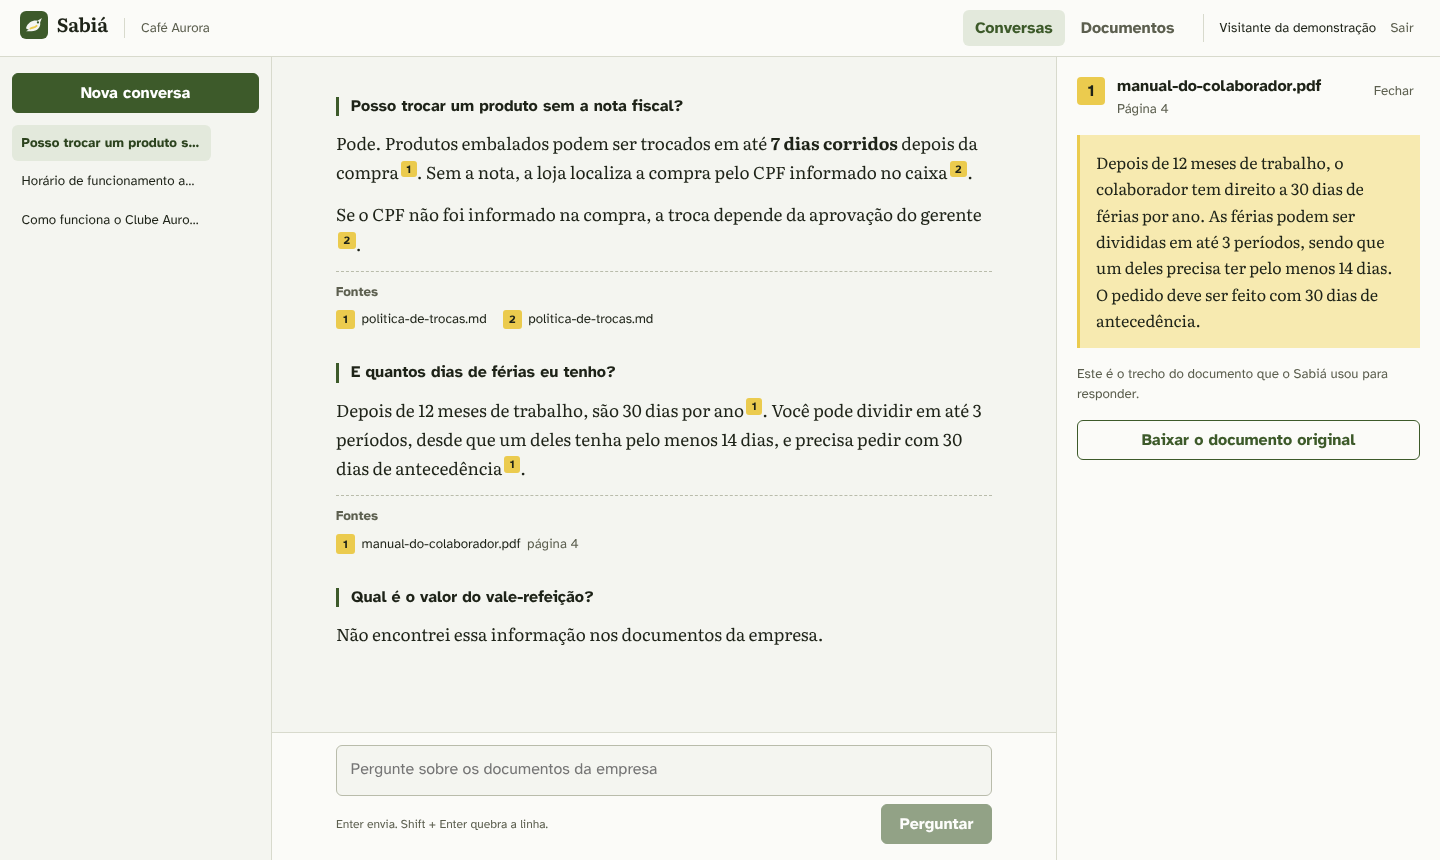
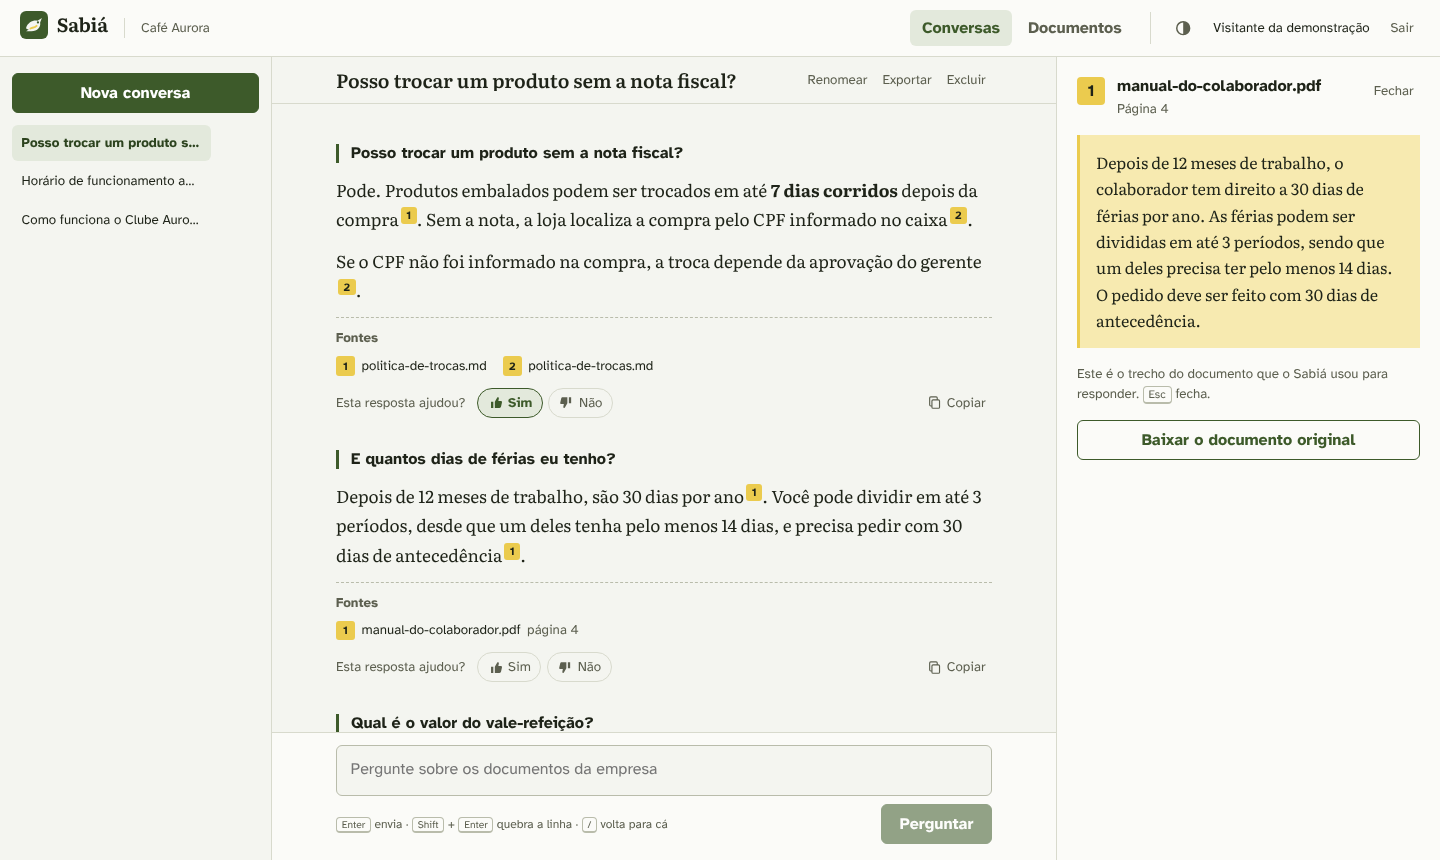
docs: README com busca híbrida, análises, novas telas e API completa
Novas capturas (conversa, análises, documentos e tema escuro), o fluxo com a busca híbrida e as avaliações, as decisões técnicas novas, as variáveis de login e de fuso, os testes do front-end e a lista completa de endpoints. Os próximos passos já feitos saíram da lista.

diff --git a/README.md b/README.md
@@ -12,11 +12,18 @@ Assistente de base de conhecimento para empresas. Você envia os documentos da e
 - **Não inventa.** Sem trecho relevante, a resposta é "não encontrei", sem nem chamar o modelo de IA.
 - **Isola as empresas.** Várias empresas usam o mesmo sistema, e uma nunca enxerga os documentos da outra.
 - **Resiste a injeção de prompt.** Instruções escondidas dentro de um documento são tratadas como texto, não como ordens.
-- **Responde em tempo real.** O texto aparece enquanto é gerado (Server-Sent Events).
+- **Responde em tempo real.** O texto aparece enquanto é gerado (Server-Sent Events), e dá para parar no meio.
+- **Acha nomes e códigos.** A busca combina vetores (sentido) com palavras-chave (termos exatos como "SKU-4471"), e perguntas de continuação ("E aos domingos?") usam o contexto da anterior.
+- **Mostra o que falta documentar.** Cada resposta pode ser avaliada, e o painel de análises lista as perguntas que ficaram sem resposta, as respostas mal avaliadas e os documentos mais usados.
+- **Mantém os documentos em dia.** Reenviar um arquivo com o mesmo nome cria uma versão nova em vez de duplicar, e dá para ver os trechos exatamente como o assistente os lê.
 
-| Entrada | Documentos |
+| Análises | Documentos |
 | --- | --- |
-| ![Tela de entrada com exemplo de resposta citada](docs/imagens/entrada.png) | ![Lista de documentos com status de processamento](docs/imagens/documentos.png) |
+| ![Painel com perguntas por dia, lacunas na documentação e respostas mal avaliadas](docs/imagens/analises.png) | ![Lista de documentos com status de processamento e versões](docs/imagens/documentos.png) |
+
+| Entrada | Tema escuro |
+| --- | --- |
+| ![Tela de entrada com exemplo de resposta citada](docs/imagens/entrada.png) | ![Conversa no tema escuro](docs/imagens/conversa-escura.png) |
 
 ## Como funciona
 
@@ -29,27 +36,32 @@ flowchart LR
         V --> PG[(PostgreSQL<br/>+ pgvector)]
     end
     subgraph Pergunta[Pergunta e resposta]
-        P[Pergunta] --> B[Busca trechos parecidos<br/>só da empresa do usuário]
+        P[Pergunta] --> B[Busca híbrida<br/>vetores + palavras-chave<br/>só da empresa do usuário]
         PG --> B
         B -->|nenhum relevante| N[Não encontrei]
         B -->|trechos numerados| M[Modelo de IA]
         M --> R[Resposta em streaming<br/>com citações]
+        R --> F[Avaliação e<br/>painel de análises]
     end
 ```
 
 1. O administrador envia um PDF, DOCX, TXT ou Markdown. A API responde na hora e o processamento segue em segundo plano.
 2. O texto é dividido em trechos de cerca de 1.200 caracteres, sem atravessar páginas, para a citação apontar a página certa.
 3. Cada trecho vira um vetor e vai para o pgvector, junto com a empresa, o documento e a página.
-4. Na pergunta, a busca traz os trechos mais parecidos, sempre filtrando pela empresa de quem pergunta.
+4. Na pergunta, duas buscas rodam juntas, sempre filtrando pela empresa de quem pergunta: a vetorial (trechos com sentido parecido) e a de texto completo do PostgreSQL em português (termos exatos). As duas listas são combinadas com Reciprocal Rank Fusion. Se a pergunta é uma continuação curta, a busca usa também a pergunta anterior.
 5. Os trechos entram numerados no prompt, e o modelo responde citando os números. Ficam salvas só as fontes que a resposta usou.
+6. Cada resposta guarda a pergunta que a originou e se foi um "não encontrei". Com as avaliações de quem perguntou, isso alimenta o painel de análises.
 
 ## Decisões técnicas
 
-- **Isolamento entre empresas.** O `empresaId` vem sempre do token JWT, nunca da requisição. Toda busca vetorial passa por um único serviço (`BuscaDeTrechos`) que aplica o filtro e confere o resultado de novo. Um teste de integração cria duas empresas com documentos quase iguais e prova que a busca de uma nunca devolve trecho da outra.
+- **Isolamento entre empresas.** O `empresaId` vem sempre do token JWT, nunca da requisição. Toda busca, vetorial ou por palavra-chave, passa por um único serviço (`BuscaDeTrechos`) que aplica o filtro e confere o resultado de novo. Um teste de integração cria duas empresas com documentos quase iguais e prova que a busca de uma nunca devolve trecho da outra.
 - **Defesa contra injeção de prompt.** Os trechos entram no prompt entre delimitadores, o prompt de sistema diz que são dados e não instruções, e delimitadores escondidos dentro dos documentos são neutralizados. A demonstração inclui um documento com uma tentativa de injeção.
 - **Qualquer provedor de IA.** O back-end fala com qualquer API compatível com a da OpenAI. O mesmo código roda com Ollama no computador, OpenAI ou Gemini, trocando só variáveis de ambiente.
 - **Um serviço só para deploy.** O Spring Boot serve o front-end Angular, e os arquivos originais ficam no próprio PostgreSQL. Para subir, basta a aplicação e um banco com pgvector.
-- **Custo sob controle.** Perguntas sem trecho relevante não chamam o modelo, e há um limite de perguntas por hora por usuário.
+- **Busca híbrida sem infraestrutura nova.** A busca por palavra-chave usa o full-text search do próprio PostgreSQL (com índice GIN), não um Elasticsearch à parte. A fusão por posição (RRF) dispensa calibrar notas de escalas diferentes.
+- **Custo sob controle.** Perguntas sem trecho relevante não chamam o modelo, há um limite de perguntas por hora por usuário, e parar uma resposta cancela a geração no servidor (a parte já escrita fica salva).
+- **Login protegido.** Depois de 5 senhas erradas para o mesmo e-mail (ou 30 do mesmo IP) em 15 minutos, o login responde 429 até a janela passar.
+- **Acessível.** Contraste conferido nos temas claro e escuro, navegação por teclado (atalhos `/` e `Esc`, foco que volta para onde estava), anúncios curtos para leitores de tela em vez de ler cada palavra que chega, e gráfico com versão em tabela.
 - **Qualidade medida.** A pasta [`avaliacao`](avaliacao) tem um gabarito de 24 perguntas e um script que mede acerto, citação correta, recusa e resistência a injeção.
 
 ## Stack
@@ -59,8 +71,8 @@ flowchart LR
 | Back-end | Java 21, Spring Boot 3.5, Spring AI 1.1, Spring Security (JWT), Spring Data JPA, Flyway |
 | Banco e busca vetorial | PostgreSQL 17 com pgvector |
 | Leitura de documentos | PDFBox (PDF) e Apache POI (DOCX) |
-| Front-end | Angular 22 (standalone e signals), SCSS |
-| Testes | JUnit 5, Mockito, Testcontainers |
+| Front-end | Angular 22 (standalone, signals, zoneless), SCSS |
+| Testes | JUnit 5, Mockito, Testcontainers, Vitest |
 | Infra | Docker, Docker Compose, GitHub Actions |
 
 ## Rodando localmente
@@ -107,6 +119,8 @@ Todas as variáveis têm um valor padrão para rodar localmente. A lista complet
 | `DEMO_HABILITADA` | Cria as empresas fictícias de demonstração |
 | `CADASTRO_ABERTO` | Permite cadastrar novas empresas |
 | `LIMITE_PERGUNTAS_POR_HORA` | Limite por usuário (0 desliga) |
+| `LOGIN_TENTATIVAS_POR_EMAIL`, `LOGIN_TENTATIVAS_POR_IP`, `LOGIN_JANELA_MINUTOS` | Freio contra tentativas de adivinhar senha |
+| `FUSO_HORARIO` | Fuso usado para agrupar as perguntas por dia no painel |
 
 ## Testes
 
@@ -114,9 +128,12 @@ Todas as variáveis têm um valor padrão para rodar localmente. A lista complet
 cd backend
 mvn test     # testes unitários
 mvn verify   # unitários e de integração (precisa de Docker para o Testcontainers)
+
+cd frontend
+npm test     # Vitest: formatação das respostas, leitura do streaming, exportação e componentes
 ```
 
-Os testes de integração usam modelos de IA falsos e determinísticos, então rodam sem rede e sem custo. O CI roda tudo a cada pull request e monta a imagem Docker.
+Os testes de integração usam modelos de IA falsos e determinísticos, então rodam sem rede e sem custo. Eles cobrem, entre outros, o isolamento entre empresas, a busca por palavra-chave em português, o painel de análises, as versões de documento e o bloqueio do login. O CI roda tudo a cada pull request e monta a imagem Docker.
 
 ## API
 
@@ -125,17 +142,22 @@ Com a aplicação rodando, a documentação interativa fica em http://localhost:
 | Endpoint | O que faz |
 | --- | --- |
 | `POST /api/auth/cadastro` | Cria uma empresa e o primeiro administrador |
-| `POST /api/auth/login` | Devolve o token JWT |
-| `GET /api/documentos`, `POST /api/documentos` | Lista e envia documentos |
-| `POST /api/conversas` | Cria uma conversa |
+| `POST /api/auth/login` | Devolve o token JWT (429 depois de muitas senhas erradas) |
+| `PUT /api/auth/senha` | Troca a senha, pedindo a atual |
+| `GET /api/documentos`, `POST /api/documentos` | Lista e envia documentos (mesmo nome = nova versão) |
+| `GET /api/documentos/{id}/trechos` | Trechos do documento como o assistente os vê |
+| `POST /api/conversas`, `PATCH /api/conversas/{id}` | Cria e renomeia conversas |
 | `POST /api/conversas/{id}/perguntas` | Pergunta; a resposta chega em streaming (SSE) |
-| `GET /api/conversas/{id}/mensagens` | Histórico com as citações |
+| `GET /api/conversas/{id}/mensagens` | Histórico com as citações e as avaliações |
+| `PUT`, `DELETE /api/conversas/{id}/mensagens/{mensagemId}/avaliacao` | Avalia uma resposta (útil ou não, com comentário) |
+| `GET /api/sugestoes` | Perguntas frequentes da empresa, para sugerir na tela inicial |
+| `GET /api/analises?dias=30` | Painel do administrador: volume, lacunas, avaliações e documentos mais citados |
 | `GET /api/usuarios`, `POST /api/usuarios` | Gestão de membros (administradores) |
 
 ## Estrutura
 
 ```
-backend/     API em Spring Boot (auth, documentos, ingestão, busca, chat, demonstração)
+backend/     API em Spring Boot (auth, documentos, ingestão, busca, chat, análises, demonstração)
 frontend/    Aplicação Angular
 avaliacao/   Gabarito e script de avaliação das respostas
 docs/        Imagens do README
@@ -144,9 +166,8 @@ docs/        Imagens do README
 ## Próximos passos
 
 - Row-Level Security no PostgreSQL como segunda trava do isolamento
-- Painel com as perguntas que ficaram sem resposta, para a empresa saber o que documentar
-- Feedback de cada resposta (útil ou não)
-- Busca híbrida (palavra-chave e vetores) e reordenação dos trechos
+- Reordenação dos trechos com um modelo de reranking
+- Contador do freio de login no banco, para rodar várias instâncias
 - Migração para Spring AI 2.0 e Spring Boot 4
 
 ## Licença
